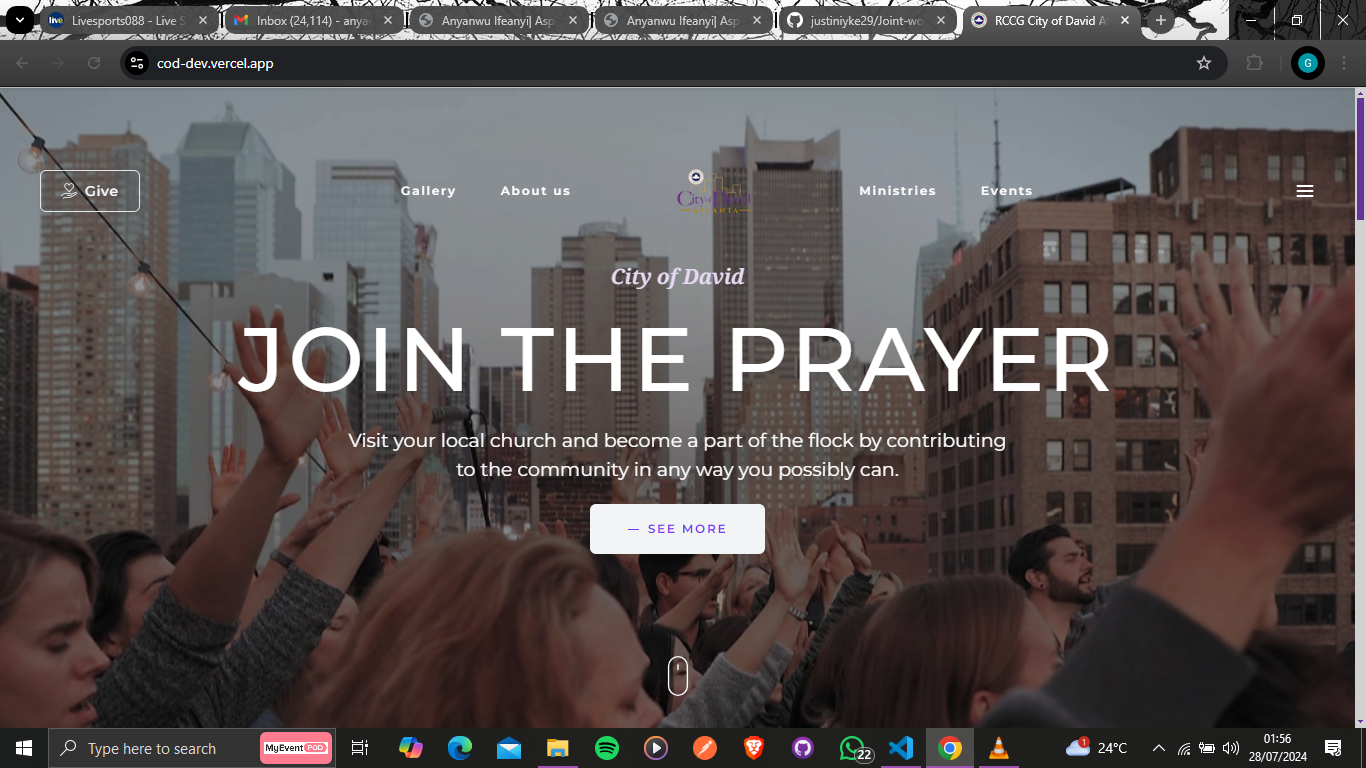
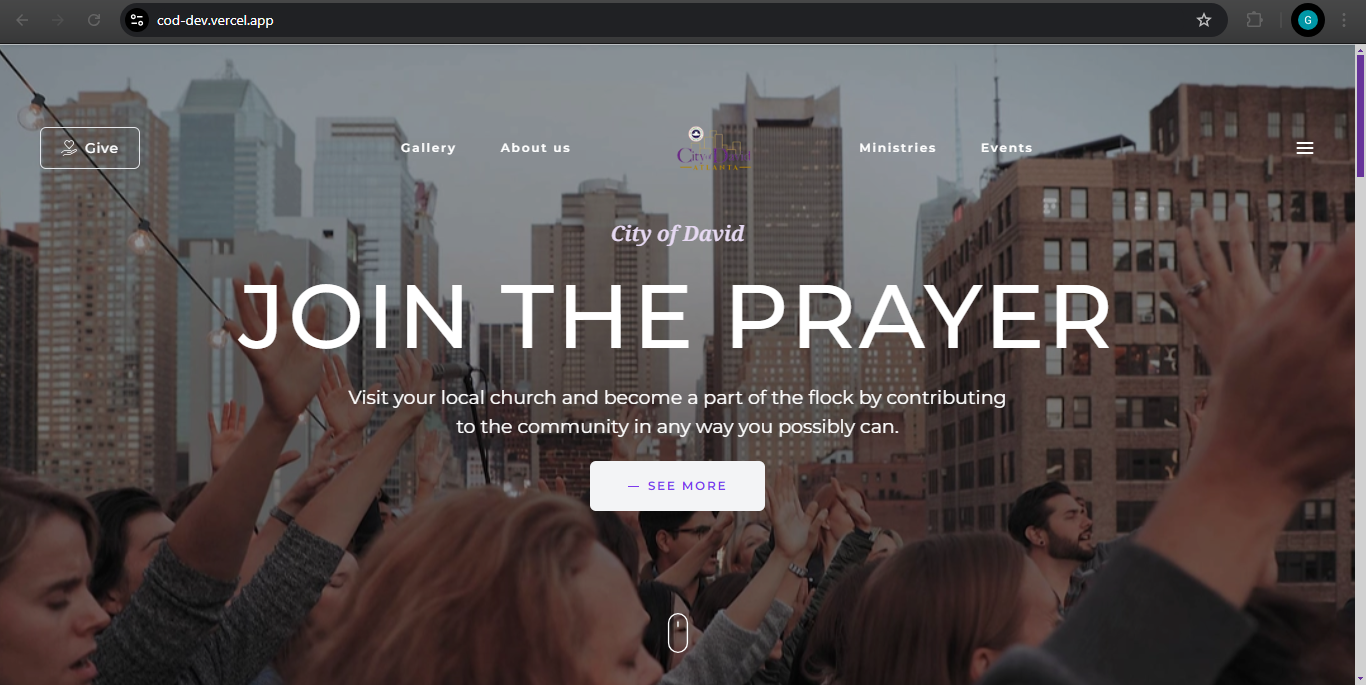
new projects added

diff --git a/src/content/projects.js b/src/content/projects.js
@@ -3,8 +3,60 @@
 //projects start
 const projects = [
   {
+  name: "FoodHutz Main Website",
+  description:
+    "Developed and maintained the primary FoodHutz web platform focused on restaurant discovery, food ordering, reservations, and customer engagement. Worked on responsive frontend architecture, SEO optimization, reusable UI components, CMS-driven content integration, and backend API connectivity to support scalable business operations and improved user experience across devices.",
+  category: "professional",
+  stack: ["Next.js", "Redux Toolkit", "RTK Query", "Sanity CMS", "Tailwind CSS"],
+  sourceCode: "https://foodhutz.co.uk",
+  img: "/foodhutz-main.png",
+  preview: "https://foodhutz.co.uk",
+},
+  {
+  name: "FoodHutz Reservations Platform",
+  description:
+    "A production-grade restaurant reservation platform built for customers to book tables across multiple restaurant locations. Implemented advanced reservation flows including custom calendar logic, guest management, discount handling, booking limits, and mobile-first responsive UX. Also integrated backend APIs for reservation processing and real-time availability management.",
+  category: "professional",
+  stack: ["Next.js", "Redux Toolkit", "RTK Query", "Tailwind CSS"],
+  sourceCode: "https://table.foodhutz.com/reservation/london",
+  img: "/foodhutz-reservation.png",
+  preview: "https://table.foodhutz.com/reservation/london",
+},
+{
+  name: "FoodHutz OneClick Takeaway",
+  description:
+    "A scalable online takeaway ordering platform developed for restaurant partners to manage online food ordering and customer checkout experiences. Improved SEO metadata, optimized page performance, implemented reusable frontend architecture, and integrated payment and order-processing APIs to support smooth customer ordering flows.",
+  category: "professional",
+  stack: ["Next.js", "Redux Toolkit", "RTK Query", "Tailwind CSS"],
+  sourceCode: "https://one.foodhutz.com/takeaway",
+  img: "/foodhutz-oneclick.png",
+  preview: "https://one.foodhutz.com/takeaway",
+},
+{
+  name: "FoodHutz Vendor Dashboard",
+  description:
+    "A vendor management dashboard built for restaurant partners to manage menus, orders, reservations, operational settings, and business data. Implemented dynamic forms, reusable UI systems, reservation management flows, API integrations, and optimized frontend state handling for complex business operations.",
+  category: "professional",
+  stack: ["Next.js", "Redux Toolkit", "RTK Query", "Tailwind CSS"],
+  sourceCode: "https://vendor-admin-xi.vercel.app/login",
+  img: "/foodhutz-vendor.png",
+  preview: "https://vendor-admin-xi.vercel.app/login",
+},
+{
+  name: "FoodHutz Restaurant Microsites",
+  description:
+    "Built and maintained SEO-optimized restaurant microsites for multiple restaurant brands under the FoodHutz ecosystem. Focused on responsive layouts, performance optimization, menu presentation, reusable component architecture, and consistent cross-device user experience.",
+  category: "professional",
+  stack: ["Next.js", "Sanity CMS", "Tailwind CSS"],
+  sourceCode: "https://amala-joint.foodhutz.co/",
+  img: "/foodhutz-microsites.png",
+  preview: "https://amala-joint.foodhutz.co/",
+},
+  {
     name: "City Of David RCCG Atalanta branch",
     description: "City of David is a church (RCCG) website created for their Atalanta branch the website has an online payment where member can pay their tithe and offering",
+    category: "professional",
+    stack: ["React", "Stripe", "Firebase"],
     sourceCode: "https://github.com/justiniyke29/Joint-work",
     img: "/rccg.png",
     preview: "https://cod-dev.vercel.app/",
@@ -13,6 +65,7 @@ const projects = [
     name: "Xcursions",
     description:
       "Xcursion is a travel web application where users can book trips to luxurious locations manage their dashboards, get notifications when trips are near, etc. With Xcursion you have the ability to pay for trips in installments.",
+    category: "professional",
     stack: ["React", "NodeJS", "Express", "MongoDB"],
     sourceCode: "https://staging.xcursions.ng",
     img: "/xcursion.png",
@@ -22,7 +75,8 @@ const projects = [
     name: "Festival of Sound",
     description:
       "Festival of Sounds is a platform that showcases the African musical culture, users can register to attend a music show, book a stand to exhibit their art etc. It was built using Next js for both frontend and backend, Mongodb for data storage, Sass for styling.",
-    stack: ["Next js", "sass", "fullstack", "MongoDB"],
+    category: "professional",
+    stack: ["Next.js", "Sass", "MongoDB"],
     sourceCode: "https://staging.festivalofsounds.com",
     img: "/festival.png",
     preview: "https://staging.festivalofsounds.com",
@@ -30,7 +84,8 @@ const projects = [
   {
     name: "Snapgram",
     description: 'Snapgram is not just another social media app, Snapgram connects people through pictures keeping memories alive, Stay engaged with a personalized content feed that adapts to your interests and preferences',
-    stack: ["Vite", "tailwind", "fullstack", "Appwrite"],
+    category: "personal",
+    stack: ["Vite", "Tailwind", "Appwrite"],
     sourceCode: "https://github.com/Boniife/boni-gram",
     img: "/snap.png",
     preview: "https://boni-gram.vercel.app/",
@@ -39,7 +94,8 @@ const projects = [
     name: "Boni-youtube Clone",
     description:
       "A clone of youtube.com which is built using React js and Rapid_Api to scrape data from different source around the world website and show as results of our queries",
-    stack: ["React", "NodeJS", "Express", "MongoDB"],
+    category: "personal",
+    stack: ["React", "NodeJS", "MongoDB"],
     sourceCode: "https://github.com/Boniife/boniyoutube",
     img: "/youtube.png",
     preview: "https://storied-centaur-8e6c60.netlify.app/",
@@ -57,6 +113,7 @@ const projects = [
     name: "Boni-fit",
     description:
       "A fitness Application. This app is built using React and Tailwind CSS. It uses Rapid-Api and youtube to source for different varieties of exercises for users benefit.",
+    category: "personal",
     stack: ["React", "Tailwind"],
     sourceCode: "https://github.com/Boniife/boni-fitness",
     img: "/fit.png",

diff --git a/src/App.jsx b/src/App.jsx
@@ -16,14 +16,19 @@ import ContactForm from "./components/ContactForm";
 import BlogPost from "./components/BlogPost";
 
 function App() {
-  const controls = useAnimation();
-  const [ref, inView] = useInView({ triggerOnce: true });
+  const projectControls = useAnimation();
+  const skillControls = useAnimation();
+  const [projectRef, projectInView] = useInView({ triggerOnce: true });
+  const [skillRef, skillInView] = useInView({ triggerOnce: true });
 
   useEffect(() => {
-    if (inView) {
-      controls.start("visible");
+    if (projectInView) {
+      projectControls.start("visible");
     }
-  }, [controls, inView]);
+    if (skillInView) {
+      skillControls.start("visible");
+    }
+  }, [projectControls, skillControls, projectInView, skillInView]);
 
   const containerVariants = {
     hidden: {},
@@ -53,34 +58,69 @@ function App() {
       <div className="hr"></div>
 
       <section id="projects">
-        <Heading firstWord="My " secondWord="work/personal-projects" />
-        <motion.div
-          className="project-map"
-          ref={ref}
-          initial="hidden"
-          animate={controls}
-          variants={containerVariants}
-        >
-          {projects.map((project, index) => (
-            <div key={index}>
-              <ProjectCard
-                name={project.name}
-                img={project.img}
-                description={project.description}
-                source={project.sourceCode}
-                preview={project.preview}
-              />
-            </div>
-          ))}
-        </motion.div>
+        <Heading firstWord="My " secondWord="Projects" />
+        <div className="project-description-text">
+          <p>
+            Frontend And FullStack Project.
+          </p>
+        </div>
+
+        <div className="project-subsection">
+          <h2> <span className="reddie">Professional</span> Projects</h2>
+          <motion.div
+            className="project-grid"
+            ref={projectRef}
+            initial="hidden"
+            animate={projectControls}
+            variants={containerVariants}
+          >
+            {projects
+              .filter((project) => project.category === "professional")
+              .map((project, index) => (
+                <ProjectCard
+                  key={index}
+                  name={project.name}
+                  img={project.img}
+                  description={project.description}
+                  source={project.sourceCode}
+                  preview={project.preview}
+                  stack={project.stack}
+                />
+              ))}
+          </motion.div>
+        </div>
+
+        <div className="project-subsection">
+          <h2>Personal <span className="reddie">Projects </span></h2>
+          <motion.div
+            className="project-grid"
+            initial="hidden"
+            animate={projectControls}
+            variants={containerVariants}
+          >
+            {projects
+              .filter((project) => project.category === "personal")
+              .map((project, index) => (
+                <ProjectCard
+                  key={index}
+                  name={project.name}
+                  img={project.img}
+                  description={project.description}
+                  source={project.sourceCode}
+                  preview={project.preview}
+                  stack={project.stack}
+                />
+              ))}
+          </motion.div>
+        </div>
       </section>
       <section id="skills">
         <Heading firstWord="Skills" secondWord="&Tools" />
         <motion.div
           className="skill-map"
-          ref={ref}
+          ref={skillRef}
           initial="hidden"
-          animate={controls}
+          animate={skillControls}
           variants={containerVariants}
         >
           {skills.map((skill, index) => (

diff --git a/src/App.css b/src/App.css
@@ -242,48 +242,75 @@ footer {
   );
 } */
 .project-card {
-  width: 310px;
-  height: 550px;
-  margin: 20px 50px;
-  padding: 18px;
-  background: rgba(5, 0, 0, 0.3);
-  box-shadow: 0 8px 32px 0 rgba(135, 47, 31, 0.37);
-  backdrop-filter: blur(6px);
-  -webkit-backdrop-filter: blur(6px);
-  border: 1px 0 solid rgba(255, 255, 255, 0.18);
-  border-radius: 15px;
-  transition: 0.2s all ease-in-out;
-  cursor: pointer;
+  width: 100%;
+  max-width: 360px;
+  margin: 20px;
+  padding: 22px;
+  background: rgba(5, 0, 0, 0.45);
+  box-shadow: 0 12px 40px rgba(0, 0, 0, 0.35);
+  backdrop-filter: blur(10px);
+  -webkit-backdrop-filter: blur(10px);
+  border: 1px solid rgba(255, 255, 255, 0.12);
+  border-radius: 22px;
+  transition: transform 0.25s ease, box-shadow 0.25s ease;
 }
 .project-card:hover {
-  transform: scale(1.05);
+  transform: translateY(-6px);
+  box-shadow: 0 18px 50px rgba(0, 0, 0, 0.45);
 }
 .project-card img {
   width: 100%;
-  height: 200px;
-
-  border-radius: 15px;
-  margin-bottom: 20px;
+  height: 210px;
+  object-fit: cover;
+  border-radius: 18px;
+  margin-bottom: 18px;
 }
-.project-map {
-  display: flex;
-  margin-top: 30px;
-  flex-wrap: wrap;
-  justify-content: center;
-  align-items: center;
+.project-description-text {
+  max-width: 860px;
+  margin: 0 auto 30px;
+  text-align: center;
+  color: #d1d1d1;
+  line-height: 1.7;
+}
+.project-subsection {
+  margin-top: 40px;
+}
+.project-subsection h2 {
+  text-align: center;
+  font-size: 2rem;
+  margin-bottom: 18px;
+  color: #ffffff;
+}
+.project-grid {
+  display: grid;
+  grid-template-columns: repeat(auto-fit, minmax(260px, 1fr));
+  gap: 28px;
+  justify-items: center;
+  align-items: stretch;
+  margin: 0 auto;
+  max-width: 1300px;
 }
 .project-title h2,
 .project-description p {
   text-align: center;
 }
 .project-title h2 {
-  font-size: 30px;
+  font-size: 28px;
 }
-.project-tag p {
-  padding: 8px;
-  background: rgba(234, 3, 3, 0.3);
-  width: fit-content;
-  border-radius: 10px;
+.project-tags {
+  display: flex;
+  flex-wrap: wrap;
+  gap: 10px;
+  justify-content: center;
+  margin-top: 16px;
+}
+.project-tag {
+  padding: 6px 12px;
+  background: rgba(234, 3, 3, 0.18);
+  color: #fff;
+  border-radius: 999px;
+  font-size: 12px;
+  letter-spacing: 0.03em;
 }
 
 .skill-map {
@@ -562,7 +589,9 @@ form > input[type="submit"]:hover {
 .post-card {
   margin-top: 0;
 }
-
+.reddie{
+  color:#f10505
+}
 /* .project-title .post-title {
   font-size: 15px;
 } */

diff --git a/src/components/ProjectCard.jsx b/src/components/ProjectCard.jsx
@@ -18,26 +18,27 @@ const ProjectCard = (props) => {
       <div className="project-description">
         <p>{props.description}</p>
       </div>
+      {props.stack && props.stack.length > 0 && (
+        <div className="project-tags">
+          {props.stack.map((item, index) => (
+            <span key={index} className="project-tag">
+              {item}
+            </span>
+          ))}
+        </div>
+      )}
       <div className="project-links">
         {props.source && (
           <div>
-            <a href={props.source} className="github">
+            <a href={props.source} className="github" target="_blank" rel="noreferrer">
               <FaGithub />
             </a>
-            <a href={props.preview}>
+            <a href={props.preview} target="_blank" rel="noreferrer">
               <FaExternalLinkAlt />
             </a>
           </div>
         )}
       </div>
-
-      {/* <div className="project-tags">
-        <div className="project-tag">
-          {projects.stack.map((project, index) => (
-            <p key={index}>hello</p>
-          ))}
-        </div>
-      </div> */}
     </div>
   );
 };
@@ -45,7 +46,7 @@ const ProjectCard = (props) => {
 ProjectCard.propTypes = {
   name: PropTypes.string.isRequired,
   description: PropTypes.string.isRequired,
-  tags: PropTypes.string.isRequired,
+  stack: PropTypes.arrayOf(PropTypes.string),
   img: PropTypes.string.isRequired,
   source: PropTypes.string.isRequired,
   preview: PropTypes.string.isRequired,

diff --git a/src/components/Footer.jsx b/src/components/Footer.jsx
@@ -2,7 +2,7 @@ const Footer = () => {
   return (
     <footer className="footer">
       <p>
-        &copy; 2023. Made with ❤ by{" "}
+        &copy; {new Date().getFullYear()}. Made with ❤ by{" "}
         <a href="https://github.com/Boniife">Ifeanyi</a>.
       </p>
     </footer>
